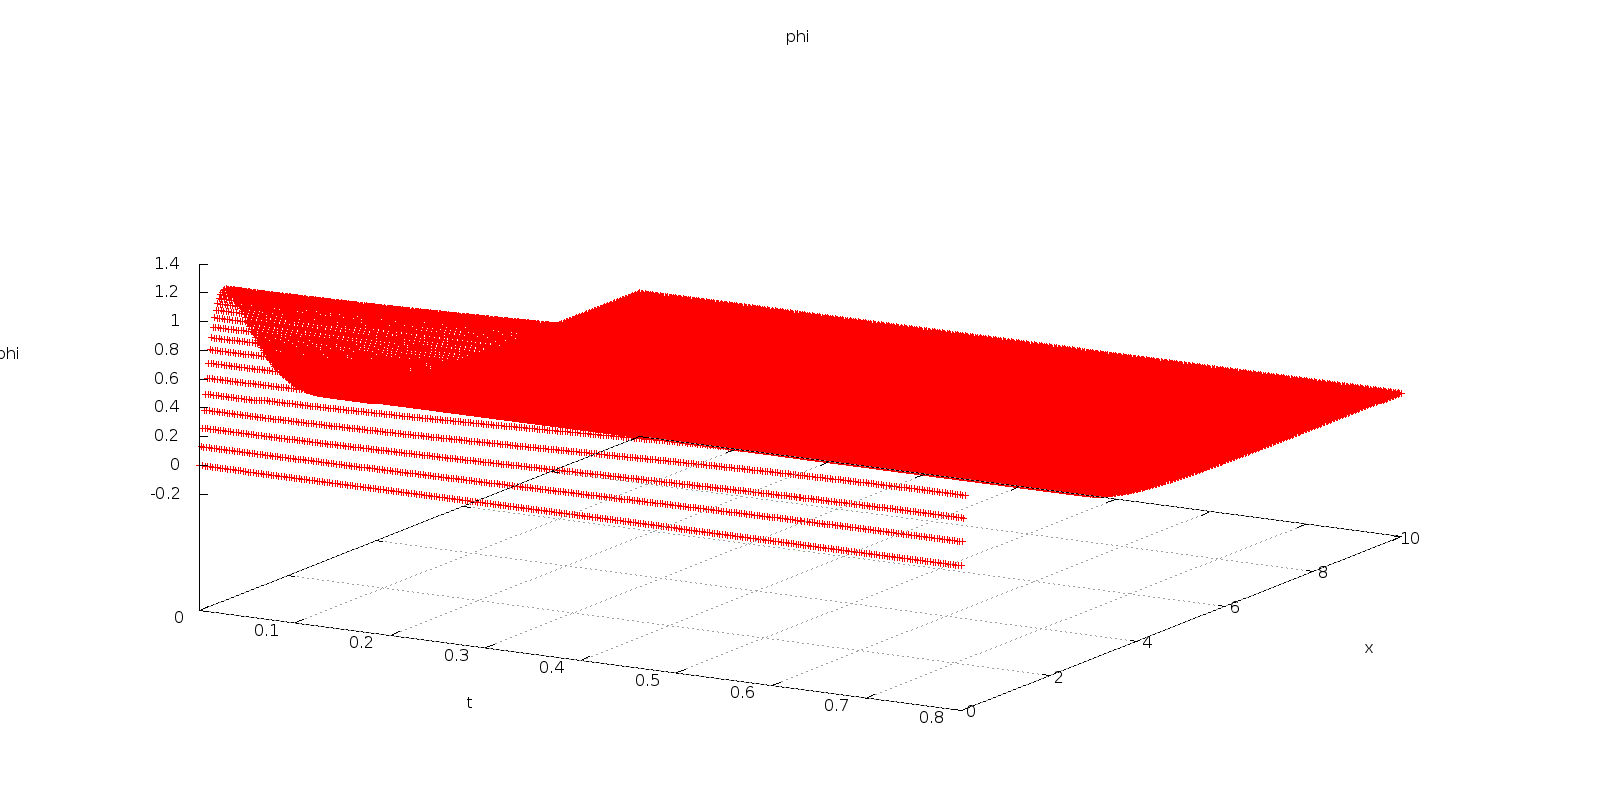
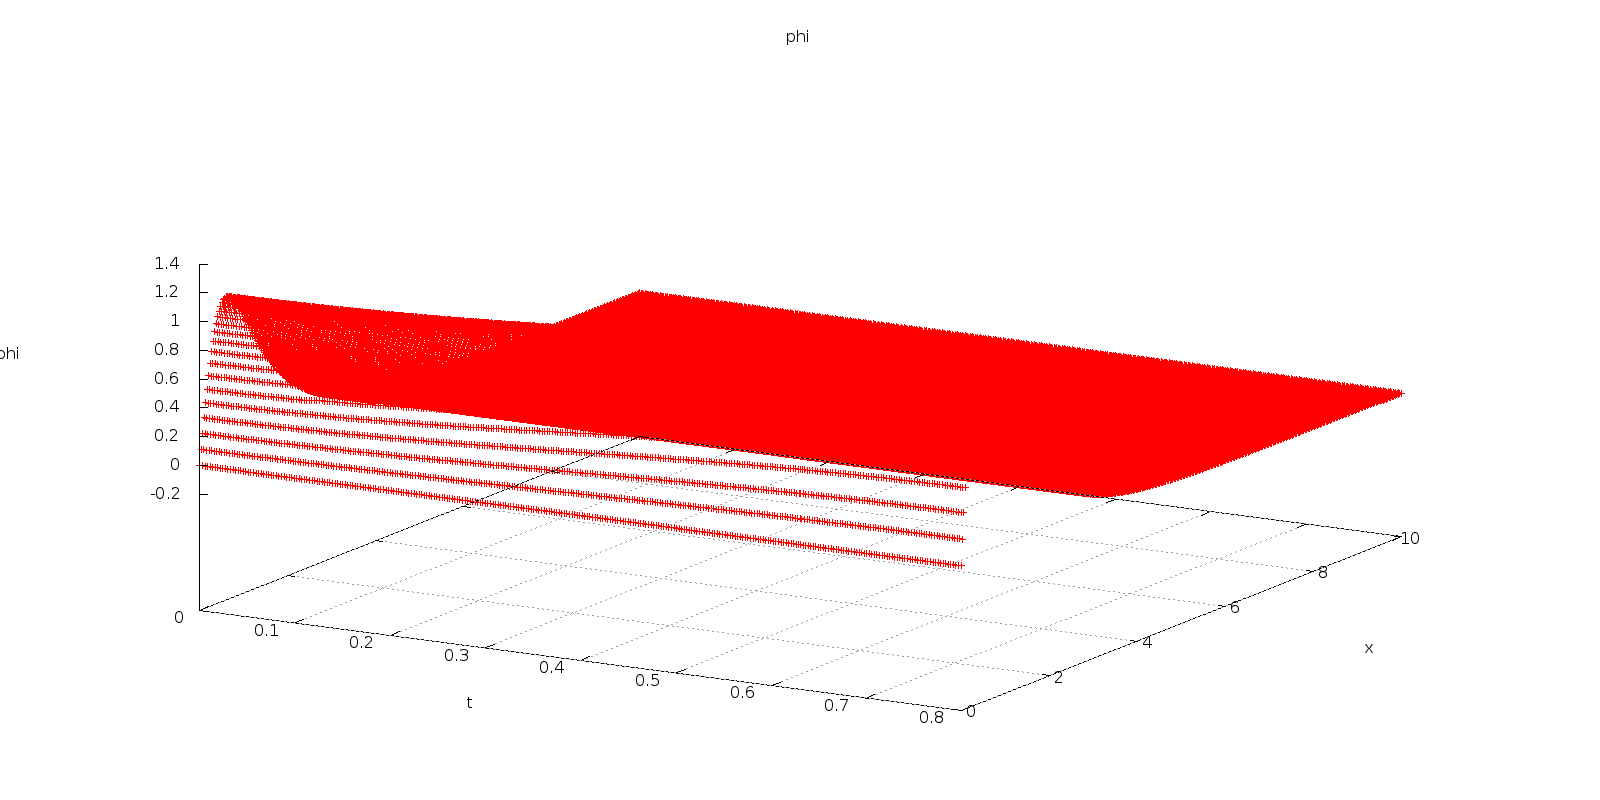
pi3.cc seems to be producing a viable input to main.cc

Changed region(s): [[0.125, 0.3438, 0.3438, 0.5938], [0.375, 0.5625, 0.625, 0.6875], [0.1875, 0.375, 0.3438, 0.4062]]

diff --git a/pi3.cc b/pi3.cc
@@ -54,12 +54,14 @@ and labels for input and output
 
 string timeNumber = currentDateTime();
 string timeNumberIn = "150112114306";
+string loopIn = "0";
 if (argc == 2) timeNumberIn = argv[1];
 else if (argc % 2 && argc>1) {
 	for (unsigned int j=0; j<(int)(argc/2); j++) {
 		string id = argv[2*j+1];
 		if (id[0]=='-') id = id.substr(1);
 		if (id.compare("tn")==0) timeNumberIn = argv[2*j+2];
+		else if (id.compare("loop")==0 || id.compare("loop")==0) loopIn = argv[2*j+2];
 		else {
 			cerr << "input " << id << " unrecognized" << endl;
 			return 1;
@@ -83,7 +85,7 @@ getting parameters from specific inputs
 
 unsigned int Nin, Nain, Nbin, Ncin;
 double Tbin, dtin, drin;
-string inputsF = "./data/" + timeNumberIn + "inputsPi_0";
+string inputsF = "./data/" + timeNumberIn + "inputsPi_" + loopIn;
 ifstream fin;
 fin.open(inputsF.c_str());
 if (fin.is_open())
@@ -125,14 +127,14 @@ if (abs(dt)>0.5*dr) {
 /* ---------------------------------------------------------------------------------------------
 loading phi on BC
 ---------------------------------------------------------------------------------------------*/
-string filename = "data/" + timeNumberIn + "pip_0.dat";
+string filename = "data/" + timeNumberIn + "pip_" + loopIn + ".dat";
 unsigned int fileLength = countLines(filename);
 vec phiBC;
 	
 if (fileLength==Nin*Nbin) phiBC = loadSimpleVectorColumn(filename,3);
 else if (fileLength==(Nin*Nbin+1))
 	{
-	vec phiBC = loadSimpleVectorColumn(filename,3);
+	phiBC = loadSimpleVectorColumn(filename,3);
 	phiBC.conservativeResize(Nbin*Nin);
 	}
 else {
@@ -144,25 +146,27 @@ else {
 propagating euclidean solution forwards and then backwards in time
 ---------------------------------------------------------------------------------------------*/
 
-vec phi((Nt+1)*(N+1)), vel((Nt+1)*(N+1)), acc((Nt+1)*(N+1)), linErgField(Nt+1);
-vec nonLinErg(Nt+1), erg(Nt+1);
-linErgField = Eigen::VectorXd::Zero(Nt+1);
-nonLinErg = Eigen::VectorXd::Zero(Nt+1);
-erg = Eigen::VectorXd::Zero(Nt+1);
-double linErgContm = 0.0, linNumContm = 0.0;
+vec phiA, phiC;
+double linErgContm, linNumContm, nonLinErgA, linErgFieldA, ergA;
 
 uint j=0;
 while(j<2) {
 
 	if (j==0) {
-		Nt = Na-1;
-		direction = -1;
-	}
-	else if (j==1) {
-		Nt = Nc-1;
+		Nt = Nc;
 		direction = 1;
 	}
-	j++;
+	else if (j==1) {
+		Nt = Na;
+		direction = -1;
+	}
+	
+	vec phi((Nt+1)*(N+1)), vel((Nt+1)*(N+1)), acc((Nt+1)*(N+1)), linErgField(Nt+1);
+	vec nonLinErg(Nt+1), erg(Nt+1);
+	linErgField = Eigen::VectorXd::Zero(Nt+1);
+	nonLinErg = Eigen::VectorXd::Zero(Nt+1);
+	erg = Eigen::VectorXd::Zero(Nt+1);
+	linErgContm = 0.0, linNumContm = 0.0;
 	
 	vec initial;
 	initial = interpolate(phiBC,Nbin,Nin,Nt+1,N+1);
@@ -269,11 +273,19 @@ while(j<2) {
 		linErgContm += 2.0*pi*Asqrd*freqSqrd;
 		linNumContm += 2.0*pi*Asqrd*pow(freqSqrd,0.5);
 		}
+	
+	if (j==0) {
+		phiC = phi;
+	}
+	else if (j==1) {
+		phiA = phi;
+		ergA = erg(Nt-1);
+		nonLinErgA = nonLinErg(Nt-1);
+		linErgFieldA = linErgField(Nt-1);
+	}
+	j++;
 		
 } // end of while j<2 loop
-	
-printf("\ndirection = %i, sigma = %g\n",direction,sigma);
-printf("Input:                  %39s\n",filename.c_str());
 	
 vec tVec((Nain+Nbin+Ncin)*Nin), rVec((Nain+Nbin+Ncin)*Nin);
 for (unsigned int t=0;t<(Nain+Nbin+Ncin);t++)
@@ -288,18 +300,19 @@ for (unsigned int t=0;t<(Nain+Nbin+Ncin);t++)
 	
 // constructing input to main
 vec mainIn((Nain+Nbin+Ncin)*Nin);
-vec mink;
-mink = interpolate(phi,Nt+1,N+1,Nain+1,Nin+1);
+vec phiAOut, phiCOut;
+phiAOut = interpolate(phiA,Na+1,N+1,Nain+1,Nin);
+phiCOut = interpolate(phiC,Nc+1,N+1,Ncin+1,Nin);
 for (unsigned int j=0;j<(Nain+Nbin+Ncin);j++)
 	{
 	for (unsigned int k=0; k<Nin; k++)
 		{
-		unsigned int l = j+k*(Nain+Nbin), m;
+		unsigned int l = j+k*(Nain+Nbin+Ncin), m;
 		double r = r0 + k*drin;
 		if (j<Nain)
 			{
 			m = (Nain-j)+k*(Nain+1);
-			mainIn(l) = mink(m)*r;
+			mainIn(l) = phiAOut(m)*r;
 			}
 		else if (j<(Nain+Nbin))
 			{
@@ -308,21 +321,28 @@ for (unsigned int j=0;j<(Nain+Nbin+Ncin);j++)
 			}
 		else
 			{
-			
+            m = j - Nain - Nbin + 1 + k*(Ncin+1);
+			mainIn(l) = phiCOut(m)*r;
 			}
 		}
 	}
 string mainInFile = "data/" + timeNumber + "tpip_0.dat";
 printThreeVectors(mainInFile,tVec,rVec,mainIn);
-printf("tpip printed        : %39s pics/pi3.png\n",mainInFile.c_str());
 gp(mainInFile,"pi3.gp");
-printf("erg(Nt-1) = %8.4f\n",linErgField(Nt-1));
-printf("linErgField(Nt-1) = %8.4f\n",linErgField(Nt-1));
-printf("nonLinErg(Nt-1) = %8.4f\n",nonLinErg(Nt-1));
-printf("linNumContm(Nt-1) = %8.4f\n",linNumContm);
-printf("linErgContm(Nt-1) = %8.4f\n\n",linErgContm);
 
-double finalTest = linErgField(Nt-1);
+printf("%8s%8s%8s%8s%8s%8s\n","N","Na","Nb","Nc","L","Tb");
+printf("%8i%8i%8i%8i%8g%8g\n",Nin,Nain,Nbin,Ncin,r1-r0,Tbin);
+printf("\n");
+
+printf("Input:                  %39s\n",filename.c_str());
+printf("tpip printed:                %39s pics/pi3.png\n",mainInFile.c_str());
+printf("erg(0) = %8.4f\n",ergA);
+printf("linErgFieldA(0) = %8.4f\n",linErgFieldA);
+printf("nonLinErgA(0) = %8.4f\n",nonLinErgA);
+printf("linNumContmA(0) = %8.4f\n",linNumContm);
+printf("linErgContmA(0) = %8.4f\n\n",linErgContm);
+
+double finalTest = linErgFieldA;
 if ( !isfinite(finalTest) ) return 0;
 else return 1;
 }

diff --git a/sphaleron_pf.h b/sphaleron_pf.h
@@ -385,6 +385,7 @@ vec loadSimpleVector (const string& loadFile)
 	vec outputVec(fileLength);
 	fstream F;
 	F.open((loadFile).c_str(), ios::in);
+	if (!F.good()) cerr << "LoadSimpleVectorColumn error: " << loadFile << "not opened properly." << endl;
 	string line;
 	unsigned int j=0;
 	while (getline(F, line))
@@ -407,6 +408,7 @@ vec loadSimpleVectorColumn (const string& loadFile, const unsigned int column)
 	vec outputVec(fileLength);
 	fstream F;
 	F.open((loadFile).c_str(), ios::in);
+	if (!F.good()) cerr << "LoadSimpleVectorColumn error: " << loadFile << "not opened properly." << endl;
 	string line, temp;
 	unsigned int j=0;
 	while (getline(F, line))
@@ -505,7 +507,7 @@ unsigned int intCoord(const unsigned int& locNum, const int& direction, const un
 vec interpolate(vec vec_old, const unsigned int & Nt_old, const unsigned int & N_old, const unsigned int & Nt_new, const unsigned int & N_new)
 	{
 	unsigned int old_size = vec_old.size();
-	if (old_size<N_old*Nt_old) {cout << "interpolate error, vec_old.size() = " << old_size << " , N_old*Nt_old = " << N_old*Nt_old << endl;}
+	if (old_size<N_old*Nt_old) {cerr << "interpolate error, vec_old.size() = " << old_size << " , N_old*Nt_old = " << N_old*Nt_old << endl;}
 	vec vec_new (N_new*Nt_new);
 	
 	unsigned int x_new, t_new, x_old, t_old;
@@ -548,7 +550,7 @@ vec interpolate(vec vec_old, const unsigned int & Nt_old, const unsigned int & N
 vector<double> interpolate2(vector<double> vec_old, const unsigned int & Nt_old, const unsigned int & N_old, const unsigned int & Nt_new, const unsigned int & N_new)
 	{
 	unsigned int old_size = vec_old.size();
-	if (old_size<N_old*Nt_old) {cout << "interpolate error, vec_old.size() = " << old_size << " , N_old*Nt_old = " << N_old*Nt_old << endl;}
+	if (old_size<N_old*Nt_old) {cerr << "interpolate error, vec_old.size() = " << old_size << " , N_old*Nt_old = " << N_old*Nt_old << endl;}
 	vector<double> vec_new (N_new*Nt_new);
 	
 	unsigned int x_new, t_new, x_old, t_old;

diff --git a/sphaleron4.cc b/sphaleron4.cc
@@ -57,25 +57,25 @@ double			amp = -1.0e-2;
 /* ---------------------------------------------------------------------------------------------
 getting inputs
 ---------------------------------------------------------------------------------------------*/
-if (argc>1) {
+if (argc>2) {
 	for (int j=0; j<(int)(argc/2); j++) {
 		string temp1 = argv[2*j+1];
 		string temp2 = argv[2*j+2];
-		if (temp1[0]=='-') {
-			temp1 = temp1.substr(1);
-			if (temp1.compare("amp")==0) amp = stringToNumber<double>(temp2);
-			else if (temp1.compare("t1")==0) t1 = stringToNumber<double>(temp2);
-			else if (temp1.compare("r1")==0) r1 = stringToNumber<double>(temp2);
-			else if (temp1.compare("r0")==0) r0 = stringToNumber<double>(temp2);
-			else if (temp1.compare("N")==0) N = stringToNumber<unsigned int>(temp2);
-			else if (temp1.compare("Nt")==0) Nt = stringToNumber<unsigned int>(temp2);
-			else {
-				cerr << "input " << temp1 << " not understood" << endl;
-				return 1;
-			}
+		if (temp1[0]=='-') temp1 = temp1.substr(1);
+		if (temp1.compare("amp")==0) amp = stringToNumber<double>(temp2);
+		else if (temp1.compare("t1")==0) t1 = stringToNumber<double>(temp2);
+		else if (temp1.compare("r1")==0) r1 = stringToNumber<double>(temp2);
+		else if (temp1.compare("r0")==0) r0 = stringToNumber<double>(temp2);
+		else if (temp1.compare("N")==0) N = stringToNumber<unsigned int>(temp2);
+		else if (temp1.compare("Nt")==0) Nt = stringToNumber<unsigned int>(temp2);
+		else {
+			cerr << "input " << temp1 << " not understood" << endl;
+			return 1;
 		}
 	}
 }
+else if (argc==2) amp = atof(argv[1]);
+else cerr << "inputs not understood" << endl;
 
 /* ---------------------------------------------------------------------------------------------
 defining main vectors

diff --git a/pf.h b/pf.h
@@ -930,8 +930,8 @@ vec interpolate1d(vec vec_old, const unsigned int & N_old, const unsigned int & 
 //print main parameters to terminal
 void printParameters()
 	{
-	printf("%8s%8s%8s%8s%8s%8s%8s%12s%8s%8s%8s%12s\n","inP","N","Na","Nb","Nc","L","Tb","R","dE","theta","reg", "epsilon");
-	printf("%8s%8i%8i%8i%8i%8g%8g%12g%8g%8g%8g%12g\n",inP.c_str(),N,Na,Nb,Nc,L,Tb,R,dE,theta,reg,epsilon);
+	printf("%8s%8s%8s%8s%8s%8s%8s%8s%8s%8s%8s%8s\n","inP","N","Na","Nb","Nc","L","Tb","R","dE","theta","reg", "epsilon");
+	printf("%8s%8i%8i%8i%8i%8g%8g%8g%8g%8g%8g%8g\n",inP.c_str(),N,Na,Nb,Nc,L,Tb,R,dE,theta,reg,epsilon);
 	printf("\n");
 	}	
 
